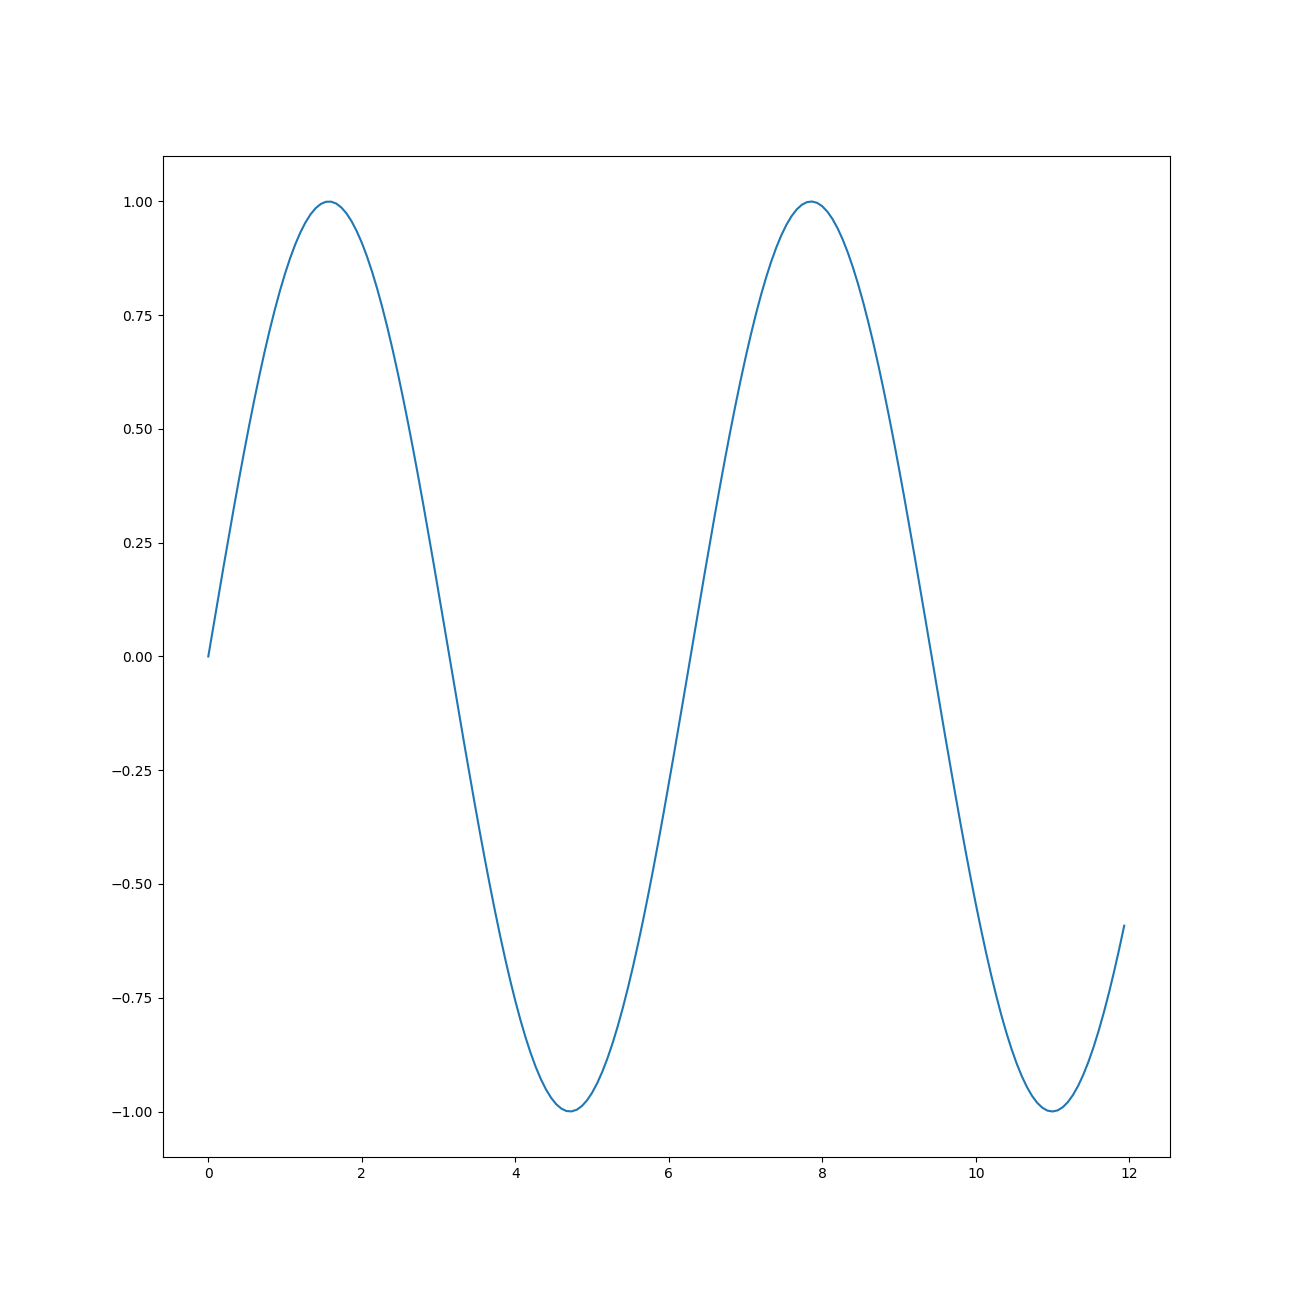
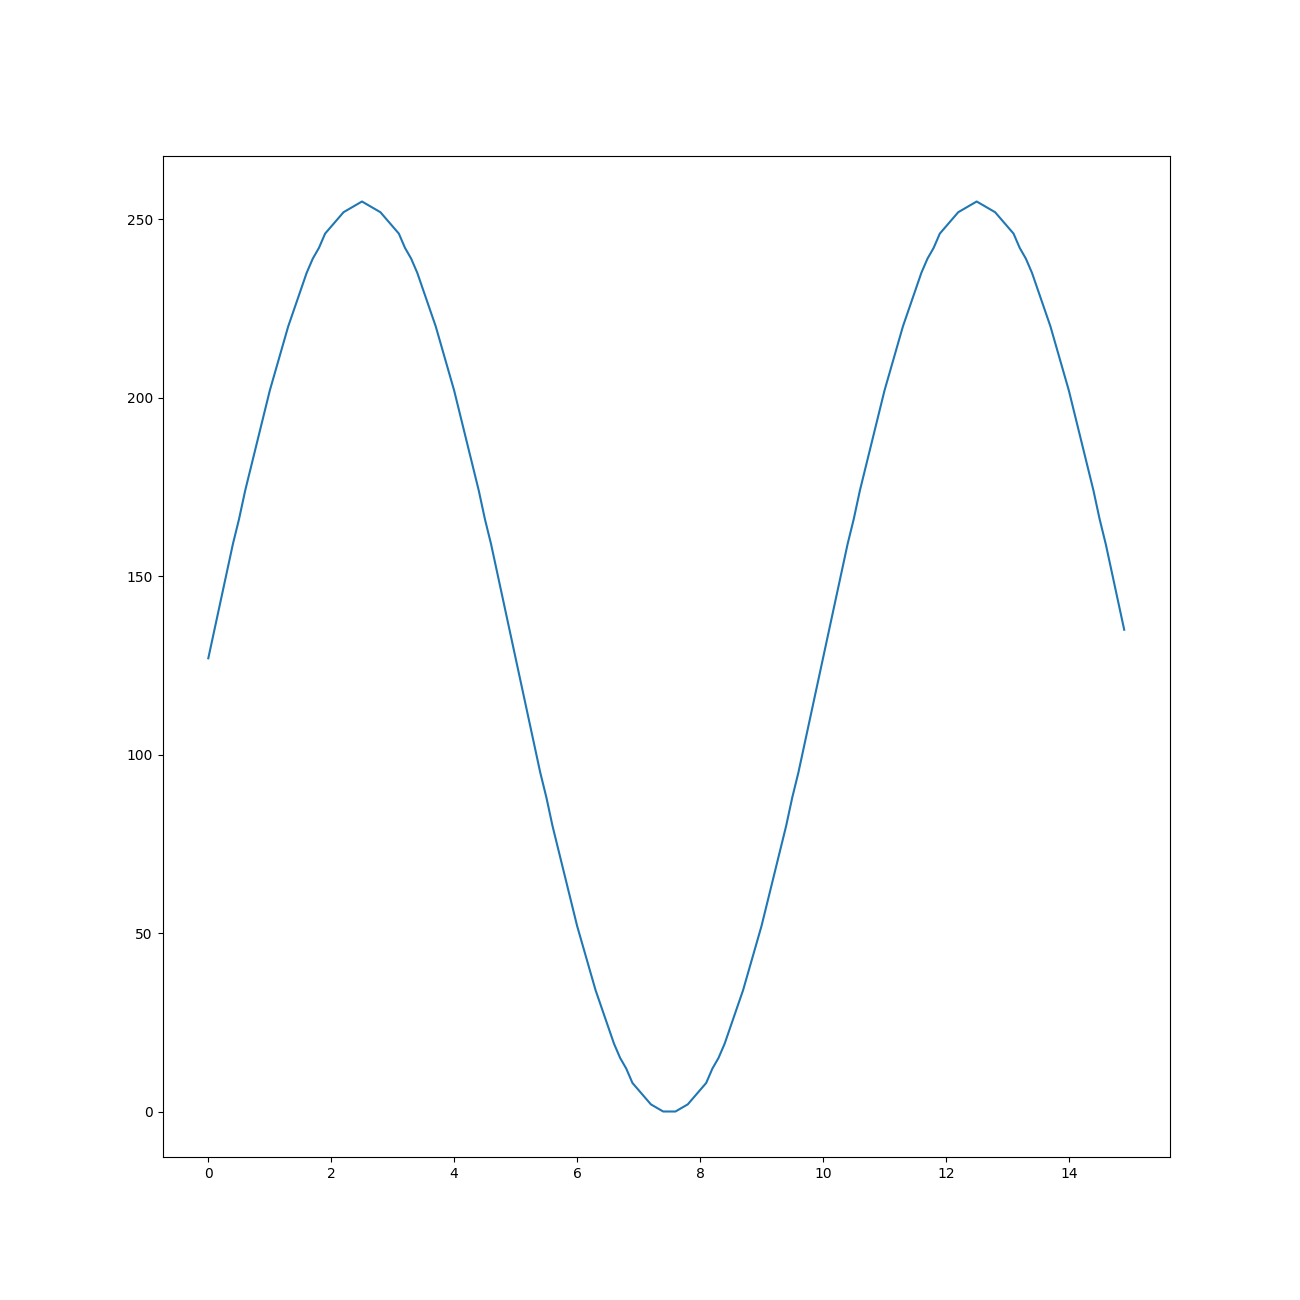
changes

diff --git a/python/script3.py b/python/script3.py
@@ -23,12 +23,12 @@ time = getFloatValue()
 frequency = getFloatValue()
 samplingFrequency = getFloatValue()
 
-ndarray = np.arange (0, time, 1 / samplingFrequency)
+X = np.arange(0, time, 1 / samplingFrequency)
 
-Y = np.sin (ndarray)
+ndarray = list(map(int, 127.5 * (np.sin(2 * np.pi * X * frequency) + 1)))
 
-plt.figure (figsize = (13, 13))
+plt.figure(figsize = (13, 13))
 
-plt.plot (ndarray, Y)
+plt.plot(X, ndarray)
 
-plt.savefig ("/home/kir/and another one/hw_oip/python/graph.png")
+plt.savefig("/home/kir/and another one/hw_oip/python/graph.png")
